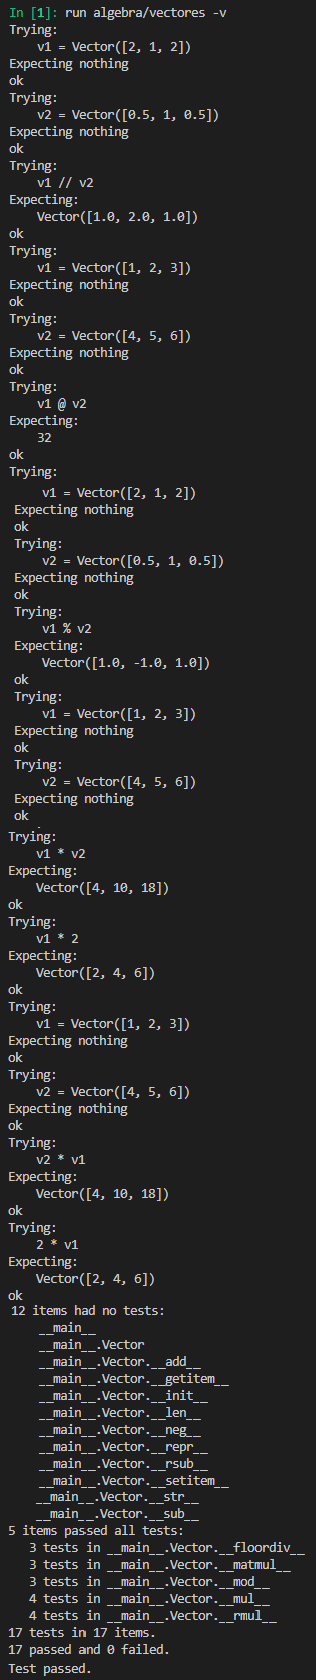
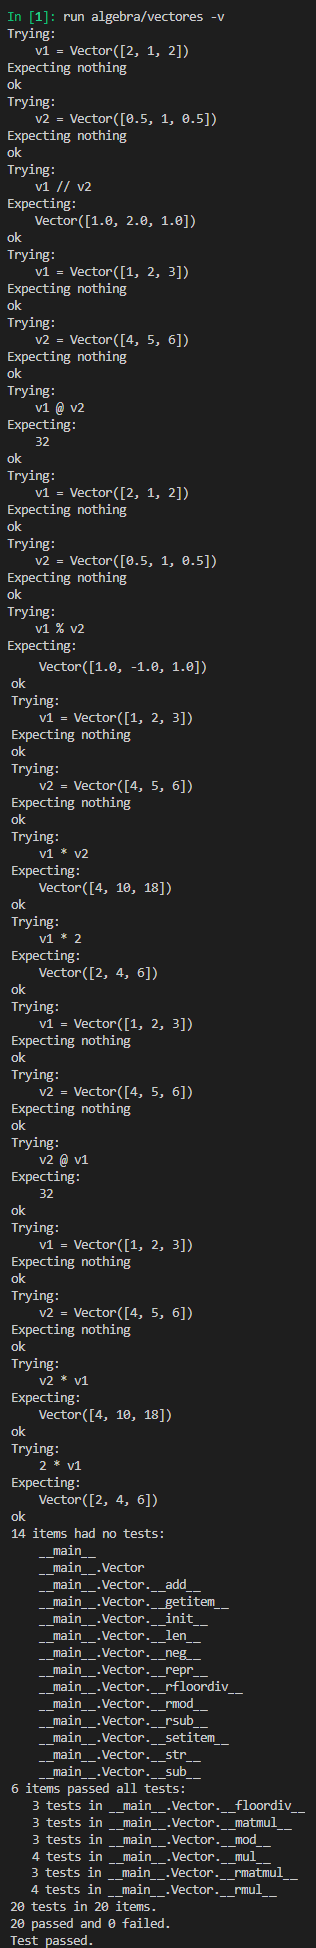
Practica 3

diff --git a/algebra/vectores.py b/algebra/vectores.py
@@ -85,6 +85,8 @@ class Vector:
 
         return -self + other
 
+
+
     def __mul__(self, other) :
         """
         Multiplicación de los elementos de dos vectores (Hadamard) o de un vector por un escalar.
@@ -100,7 +102,9 @@ class Vector:
             return Vector(uno * other for uno in self)
         else:
             return Vector(uno * otro for uno, otro in zip(self, other))
-        
+
+
+
     def __rmul__(self,other) :
         """
         Multiplicación de los elementos de dos vectores (Hadamard) o de un vector por un escalar.
@@ -114,6 +118,7 @@ class Vector:
         """
         return self.__mul__(other)
     
+
 
     def __matmul__(self, other) :
         """
@@ -129,17 +134,16 @@ class Vector:
     
 
 
-    # Es superflua dado que es una operación entre dos Vector()
-    # def __rmatmul__(self,other) :
-    #     """
-    #     Producto escalar de dos vectores.
-    #     Como argumentos uso self como él mismo y other como otro Vector realizando la operación.
-    #     >>> v1 = Vector([1, 2, 3])
-    #     >>> v2 = Vector([4, 5, 6])
-    #     >>> v2 @ v1
-    #     32
-    #     """
-    #     return self.__matmul__(other) 
+    def __rmatmul__(self,other) :
+        """
+        Producto escalar de dos vectores.
+        Como argumentos uso self como él mismo y other como otro Vector realizando la operación.
+        >>> v1 = Vector([1, 2, 3])
+        >>> v2 = Vector([4, 5, 6])
+        >>> v2 @ v1
+        32
+        """
+        return self.__matmul__(other) 
 
 
 
@@ -156,9 +160,8 @@ class Vector:
     
 
 
-    # Es superflua dado que es una operación entre dos Vector()
-    # def __rfloordiv__(self,other) :
-    #     return self.__floordiv__(other) 
+    def __rfloordiv__(self,other) :
+        return self.__floordiv__(other) 
 
 
     
@@ -176,9 +179,8 @@ class Vector:
     
 
 
-    # Es superflua dado que es una operación entre dos Vector()
-    # def __rmod__(self,other) :
-    #     return other.__mod__(self) 
+    def __rmod__(self,other) :
+        return other.__mod__(self) 
 
 
 

diff --git a/README.md b/README.md
@@ -86,7 +86,7 @@ vale insertar una imagen o una captura de pantalla, debe hacerse en formato *mar
 
 
 ```python
-    def __mul__(self, other) :
+   def __mul__(self, other) :
         """
         Multiplicación de los elementos de dos vectores (Hadamard) o de un vector por un escalar.
         Como argumentos uso self como él mismo y other como otro Vector realizando la operación.
@@ -101,7 +101,9 @@ vale insertar una imagen o una captura de pantalla, debe hacerse en formato *mar
             return Vector(uno * other for uno in self)
         else:
             return Vector(uno * otro for uno, otro in zip(self, other))
-        
+
+
+
     def __rmul__(self,other) :
         """
         Multiplicación de los elementos de dos vectores (Hadamard) o de un vector por un escalar.
@@ -115,6 +117,7 @@ vale insertar una imagen o una captura de pantalla, debe hacerse en formato *mar
         """
         return self.__mul__(other)
     
+
 
     def __matmul__(self, other) :
         """
@@ -130,17 +133,16 @@ vale insertar una imagen o una captura de pantalla, debe hacerse en formato *mar
     
 
 
-    # Es superflua dado que es una operación entre dos Vector()
-    # def __rmatmul__(self,other) :
-    #     """
-    #     Producto escalar de dos vectores.
-    #     Como argumentos uso self como él mismo y other como otro Vector realizando la operación.
-    #     >>> v1 = Vector([1, 2, 3])
-    #     >>> v2 = Vector([4, 5, 6])
-    #     >>> v2 @ v1
-    #     32
-    #     """
-    #     return self.__matmul__(other) 
+    def __rmatmul__(self,other) :
+        """
+        Producto escalar de dos vectores.
+        Como argumentos uso self como él mismo y other como otro Vector realizando la operación.
+        >>> v1 = Vector([1, 2, 3])
+        >>> v2 = Vector([4, 5, 6])
+        >>> v2 @ v1
+        32
+        """
+        return self.__matmul__(other) 
 
 
 
@@ -157,9 +159,8 @@ vale insertar una imagen o una captura de pantalla, debe hacerse en formato *mar
     
 
 
-    # Es superflua dado que es una operación entre dos Vector()
-    # def __rfloordiv__(self,other) :
-    #     return self.__floordiv__(other) 
+    def __rfloordiv__(self,other) :
+        return self.__floordiv__(other) 
 
 
     
@@ -177,9 +178,8 @@ vale insertar una imagen o una captura de pantalla, debe hacerse en formato *mar
     
 
 
-    # Es superflua dado que es una operación entre dos Vector()
-    # def __rmod__(self,other) :
-    #     return other.__mod__(self) 
+    def __rmod__(self,other) :
+        return other.__mod__(self) 
 
 
 
